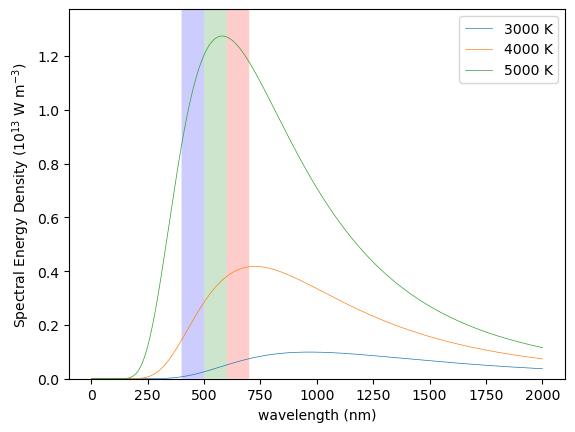
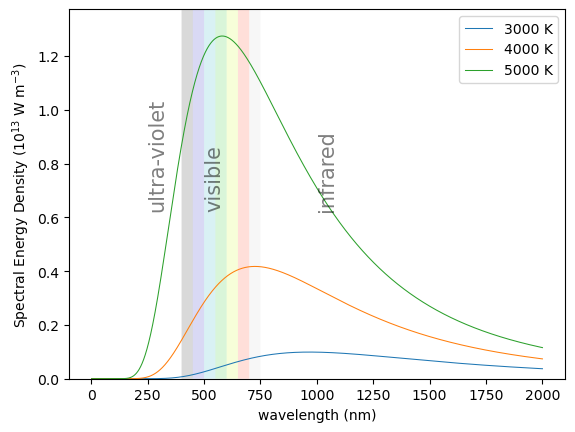
update radiationcurve

diff --git a/pack/equations.py b/pack/equations.py
@@ -1,5 +1,8 @@
 import numpy as np
 import matplotlib.pyplot as plt
+import matplotlib as mpl
+from sympy import rotations
+
 
 
 from pack import constant
@@ -38,9 +41,15 @@ def radiationCurve(T):
     for i in T:
         B=((2.*constant.h_plank*constant.c**2.)/(wavelength_range**5.))/(np.exp((E)/(constant.k_boltzman*i))-1.)
         B=np.array(B,dtype=np.float128)
-        plt.plot(wavelength_range*1e9,B*(1./1e13),lw=0.5,label=str(i)+' K')#wavelenght in nm and spectral energy density in W.m-3
-    for i,j in zip([[400,500],[500,600],[600,700]],['b','g','r']):
-        plt.fill_betweenx(B,i[0],i[1],color=j,edgecolor=None,alpha=0.2)
+        plt.plot(wavelength_range*1e9,B*(1./1e13),lw=0.75,label=str(i)+' K')#wavelenght in nm and spectral energy density in W.m-3
+    cmap=plt.cm.get_cmap('nipy_spectral')
+    normalize = mpl.colors.Normalize(vmin=400, vmax=700)
+    for i in np.arange(400,750,50):
+        plt.fill_betweenx(B,i,i+50,color=cmap(normalize(i)),alpha=0.15,edgecolor=None)
+    for i,j in zip([250,500,1000],['ultra-violet','visible','infrared']):
+        plt.text(i,(max(B)/1e13)/2,j,rotation=90,alpha=0.5,fontsize=15)
+
+
     plt.xlabel('wavelength (nm)')
     plt.ylabel('Spectral Energy Density (10$^{13}$ W m$^{-3}$)')
     plt.ylim(0.,max(B)/1e13+0.1)
